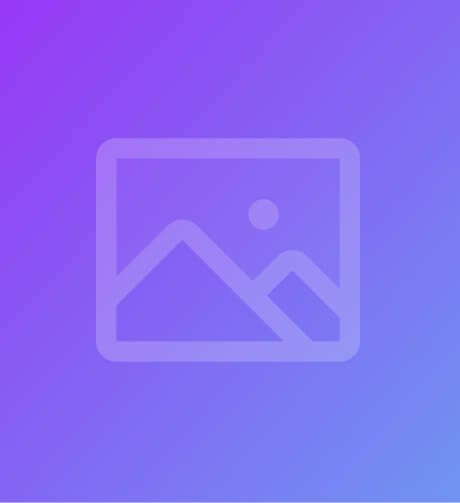
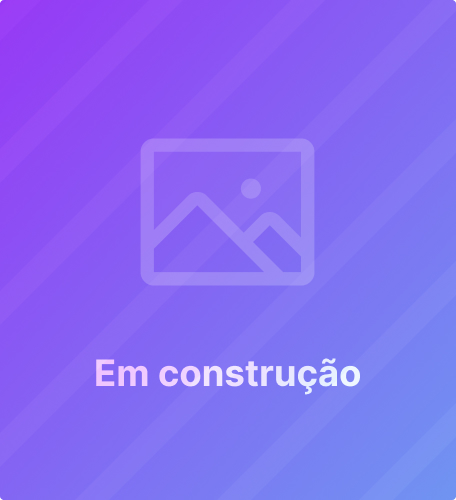
:pencil: Adicionando popup no portfolio

diff --git a/index.html b/index.html
@@ -8,7 +8,7 @@
   <!--:::::::::: FAVICON ::::::::::-->
   <link rel="shortcut icon" href="./assets/icons/favicon-light.svg" type="image/x-icon">
   <!--:::::::::: STYLE CSS ::::::::::-->
-  <link rel="stylesheet" href="./assets/css/style-minify.css">
+  <link rel="stylesheet" href="./assets/css/style.css">
   <!--:::::::::: ANIMATE CSS ::::::::::-->
   <link href="https://unpkg.com/aos@2.3.1/dist/aos.css" rel="stylesheet">
 </head>
@@ -23,7 +23,7 @@
           de <span>alta conversão</span>
         </h1>
         <p>
-          Aumentamos seus resultados com páginas <span>sob medida</span> de alta performance, carregadas em até 3
+          Aumentamos seus resultados com páginas <span>sob medida</span> com carregamento em até 3
           segundos.
         </p>
         <a class="cta"
@@ -146,34 +146,34 @@
         <h2>Veja os nossos principais cases de sucesso</h2>
       </div>
       <div class="projects" data-aos="fade-up" data-aos-duration="1000">
-        <a href="#" class="item">
-          <img src="./assets/imagens/thumb.jpg" alt="Capa do projeto">
+        <button class="item" onclick="openPopup(0)">
+          <img src="./assets/imagens/project-direito-thumb.jpg" alt="Capa do projeto">
           <div class="id-except">
-            <h3>Projeto Alfa</h3>
-            <span>Página de Captura</span>
-          </div>
-        </a>
-        <a href="#" class="item">
-          <img src="./assets/imagens/thumb.jpg" alt="Capa do projeto">
-          <div class="id-except">
-            <h3>Projeto Beta</h3>
-            <span>Página de Obrigado</span>
-          </div>
-        </a>
-        <a href="#" class="item">
-          <img src="./assets/imagens/thumb.jpg" alt="Capa do projeto">
-          <div class="id-except">
-            <h3>Projeto Gama</h3>
+            <h3>Monteiro Verdasca Advogados</h3>
             <span>Página de Vendas</span>
           </div>
-        </a>
-        <a href="#" class="item">
+        </button>
+        <button class="item" onclick="openPopup(1)">
+          <img src="./assets/imagens/project-clinica-thumb.jpg" alt="Capa do projeto">
+          <div class="id-except">
+            <h3>Doctor Care - Assistência Médica</h3>
+            <span>Página de Vendas</span>
+          </div>
+        </button>
+        <button class="item" onclick="openPopup(2)">
+          <img src="./assets/imagens/project-medico-thumb.jpg" alt="Capa do projeto">
+          <div class="id-except">
+            <h3>Healhty Carely - Cuidados Médicos</h3>
+            <span>Página de Vendas</span>
+          </div>
+        </button>
+        <button class="item" onclick="openPopup(3)">
           <img src="./assets/imagens/thumb.jpg" alt="Capa do projeto">
           <div class="id-except">
-            <h3>Projeto Ômega</h3>
+            <h3>Projeto em construção</h3>
             <span>Página de Captura</span>
           </div>
-        </a>
+        </button>
       </div>
       <a class="cta"
         href="https://api.whatsapp.com/send?phone=5562998152434&text=Ol%C3%A1,%20gostaria%20de%20solicitar%20um%20or%C3%A7amento.">
@@ -181,6 +181,20 @@
         <img src="assets/icons/whatsapp.svg" alt="Ícone de WhatsApp">
       </a>
     </div>
+
+
+    <div class="popup-wrapper" onclick="closePopup()">
+      <div class="popup">
+        <button class="popup-close" onclick="closePopup()">
+          <img src="./assets/icons/close.svg" alt="Ícone de fechar">
+        </button>
+        <div class="popup-content">
+          <img id="project" src="" alt="">
+        </div>
+      </div>
+    </div>
+
+
   </section>
   <section class="faq">
     <div class="container">

diff --git a/assets/css/style.css b/assets/css/style.css
@@ -25,13 +25,16 @@ body {
 }
 
 /*:::::::::: SCROLL BAR ::::::::::*/
-body::-webkit-scrollbar {
+body::-webkit-scrollbar,
+.popup-content::-webkit-scrollbar {
   width: 0.6rem; /* width of the entire scrollbar */
 }
-body::-webkit-scrollbar-track {
+body::-webkit-scrollbar-track,
+.popup-content::-webkit-scrollbar-track {
   background: var(--bgTextWhite); /* color of the tracking area */
 }
-body::-webkit-scrollbar-thumb {
+body::-webkit-scrollbar-thumb,
+.popup-content::-webkit-scrollbar-thumb {
   background-color: var(--grayLight);
   border-radius: 1rem;
   -webkit-border-radius: 1rem;
@@ -407,8 +410,16 @@ body::-webkit-scrollbar-thumb {
   gap: 2rem;
 }
 .portfolio .projects .item {
+  display: block;
+  background: transparent;
+  text-align: start;
+  max-height: 31.25rem;
+  height: 100%;
   max-width: 28.75rem;
   width: 100%;
+  border: 0;
+  outline: none;
+  cursor: pointer;
   transition: all 0.2s ease-out;
   -webkit-transition: all 0.2s ease-out;
   -moz-transition: all 0.2s ease-out;
@@ -432,6 +443,7 @@ body::-webkit-scrollbar-thumb {
   -moz-border-radius: 4px;
   -ms-border-radius: 4px;
   -o-border-radius: 4px;
+  box-shadow: 2px 4px 1rem #1111113f;
 }
 .portfolio .projects .item .id-except {
   display: flex;
@@ -452,6 +464,56 @@ body::-webkit-scrollbar-thumb {
 }
 .portfolio .cta {
   margin: 4rem auto 0 auto;
+}
+
+/* POP-UP PORTFÓLIO */
+.popup-wrapper {
+  display: none;
+  /* display: flex; */
+  justify-content: center;
+  align-items: center;
+  background: rgba(0, 0, 0, 0.8);
+  position: fixed;
+  top: 0;
+  left: 0;
+  right: 0;
+  width: 100vw;
+  height: 100%;
+  z-index: 10;
+}
+.popup-wrapper .popup {
+  position: relative;
+  height: 90%;
+  max-width: 1000px;
+  width: 90%;
+}
+.popup-wrapper .popup .popup-close {
+  position: absolute;
+  top: -1rem;
+  right: -5rem;
+  background-color: transparent;
+  border: 0;
+  outline: 0;
+  padding: 1rem;
+  cursor: pointer;
+}
+.popup-wrapper .popup .popup-close img {
+  width: 3rem;
+}
+.popup-wrapper .popup-content {
+  max-height: 100%;
+  width: auto;
+  overflow-y: scroll;
+  border-radius: 4px;
+  -webkit-border-radius: 4px;
+  -moz-border-radius: 4px;
+  -ms-border-radius: 4px;
+  -o-border-radius: 4px;
+}
+.popup-wrapper .popup-content img {
+  background-position-y: top;
+  width: 100%;
+  height: auto;
 }
 
 /*:::::::::: FAQ ::::::::::*/
@@ -675,20 +737,16 @@ body::-webkit-scrollbar-thumb {
   -o-transition: all 0.2s ease-out;
 }
 .footer .socials a:hover {
-  transform: scale(0.98);
-  -webkit-transform: scale(0.98);
-  -moz-transform: scale(0.98);
-  -ms-transform: scale(0.98);
-  -o-transform: scale(0.98);
+  transform: scale(0.9);
+  -webkit-transform: scale(0.9);
+  -moz-transform: scale(0.9);
+  -ms-transform: scale(0.9);
+  -o-transform: scale(0.9);
 }
 .footer .socials img {
-  background: linear-gradient(
-    130deg,
-    var(--accentMain) -40%,
-    var(--bgTextMain) 80%
-  );
+  max-width: 2.25rem;
+  background: transparent;
   padding: 4px;
-  border: 1px solid rgba(112, 148, 241, 0.2);
   border-radius: 4px;
   -webkit-border-radius: 4px;
   -moz-border-radius: 4px;
@@ -758,9 +816,6 @@ body::-webkit-scrollbar-thumb {
   }
 }
 @media (max-width: 1000px) {
-  .hero .content .headline {
-    max-width: 32rem;
-  }
   .hero .content .headline h1 > span {
     display: block;
   }

diff --git a/assets/js/script.js b/assets/js/script.js
@@ -1,1 +1,22 @@
-AOS.init();
+// BIBLIOTECA DE ANIMAÇÃO
+AOS.init()
+
+// POPUP PORTFOLIO
+function openPopup(index) {
+  const popup = document.querySelector(".popup-wrapper")
+  const popupImage = document.querySelector("#project")
+  const projectUrl = [
+    "./assets/imagens/project-direito.jpg",
+    "./assets/imagens/project-clinica.jpg",
+    "./assets/imagens/project-medico.jpg",
+    "./assets/imagens/thumb.jpg",
+  ]
+
+  popupImage.src = projectUrl[index]
+  popup.style.display = "flex"
+}
+
+function closePopup() {
+  const popup = document.querySelector(".popup-wrapper")
+  popup.style.display = "none"
+}
